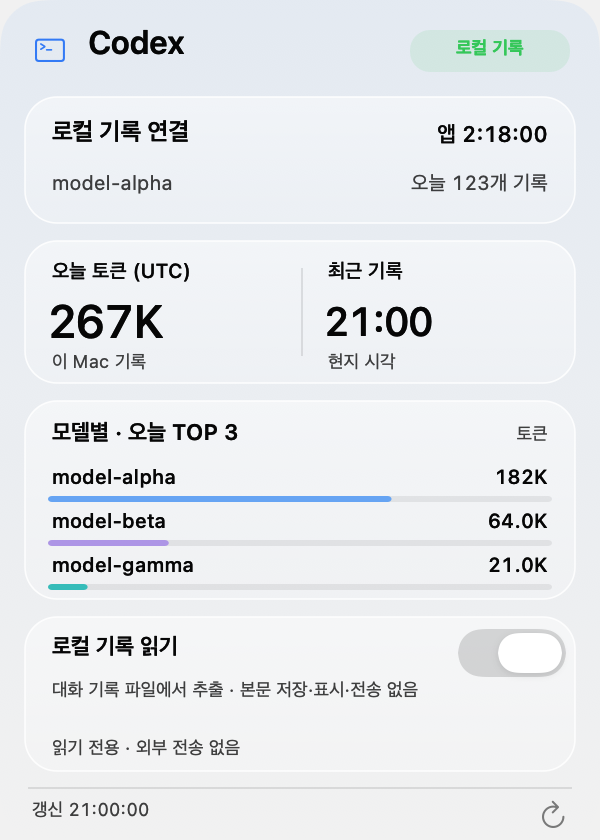
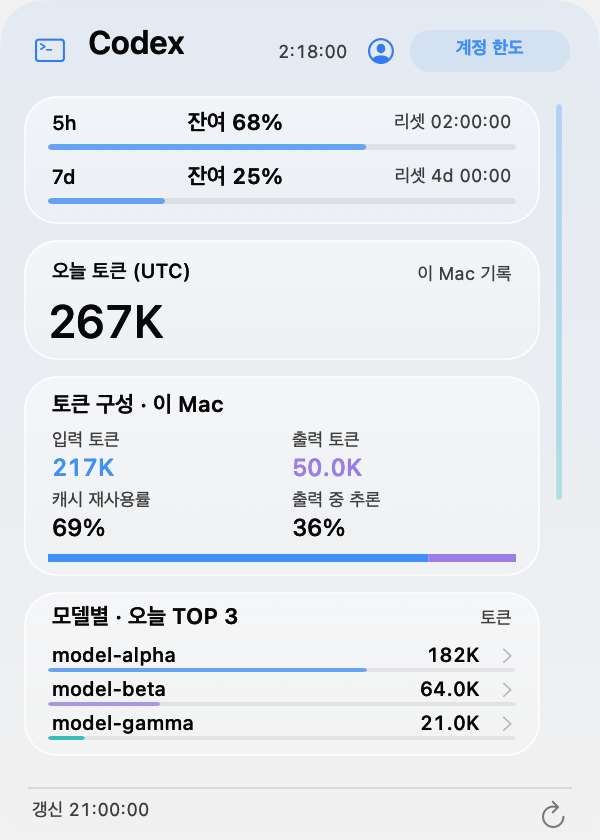
Prepare v2.10.5 release notes and refresh Codex previews

diff --git a/SECURITY.md b/SECURITY.md
@@ -10,7 +10,7 @@ Account quota is a separate, default-off opt-in. The account review explains tha
 
 The client sends only initialization and the documented account read/login/cancel/logout/quota RPCs and separately approved daily-usage reads, rejects unsolicited requests, and never creates a thread, requests model generation or executes a tool/command. This RPC restriction is not a provider-enforced read-only credential scope. Only validated numeric quota windows and connection states enter monitor/rendering snapshots; account IDs, email, device codes, URLs and raw errors do not. Quota normally polls once a minute, stops on system sleep, and resumes an approved saved connection after wake/relaunch. Stale, missing and expired data is unknown; reset timestamps do not prove restored access. Disconnect requests logout, closes this app’s helper, then unlinks only its isolated `auth.json`, reporting a removal failure if needed. It does not revoke unrelated Codex sessions. Users can revoke provider access from their account. See [account integration](docs/CODEX_ACCOUNT.md) for version and compatibility limits.
 
-Daily account statistics are a second, default-off opt-in with a separate review. Only after approval does the client add `account/usage/read` with empty parameters to its RPC allowlist. It retains at most seven validated date/token values in memory and discards thread fields. Separately approved account summaries retain only five validated numeric fields in memory; unknown fields are discarded. Existing local records are not uploaded. Queries normally run about once per five minutes using the existing timer; errors/unsupported responses do not break quota. Disabling the graph clears its data and ignores pending replies. Account disconnect also removes this statistics approval. No additional authentication scope, credential source or data recipient is introduced.
+Daily account statistics are a second, default-off opt-in with a separate review. Only after approval does the client add `account/usage/read` with empty parameters to its RPC allowlist. It retains at most seven validated date/token values in memory and discards thread fields. Separately approved account summaries retain only five validated numeric fields in memory; unknown fields are discarded. Existing local records are not uploaded. Queries normally run about once per five minutes using the existing timer; errors/unsupported responses do not break quota. Disabling statistics clears their data and ignores pending replies. Account disconnect also removes this statistics approval. No additional authentication scope, credential source or data recipient is introduced.
 
 Disk cleanup starts on explicit cleanup entry after the user has selected a local folder. The approved folder can be remembered and scanned on later cleanup entry; it is never scanned merely because the app launches, a tab changes or the panel reopens. It scans bounded file metadata without reading contents, suggests only old installers by prechecking them after a complete scan (large files and incomplete scans remain unchecked), and moves only explicitly selected regular files to Trash after a separate review. It does not permanently delete files, empty Trash, follow symbolic links, clean all caches, or request Full Disk Access. System and known cloud locations, package contents, and version-controlled project trees are excluded. Arbitrary third-party sync folders cannot all be detected; the UI asks the user to select a non-synced local folder. File and ancestor identities are checked again before each move; changed or inaccessible items are skipped. Results distinguish moved, skipped, and failed files, and moving to Trash is never reported as reclaimed space. Only the approved folder bookmark, exact physical path and stable ancestor identities are stored locally; the user can forget this record from the folder menu. Moved, replaced, newly protected or unverifiable locations require explicit selection again. Candidate paths, checkbox states, confirmations and results remain in memory and are not written to logs or uploaded.
 
@@ -18,6 +18,6 @@ Please do not post access tokens, private process names, personal paths, or deta
 
 Only current source and release assets from this repository are supported. Check release filenames, the recorded commit and SHA-256 checksums before using a download. Checksums detect file differences; they do not replace Developer ID signing or Apple notarization. The initial release is ad-hoc signed and is not notarized.
 
-The account graph explicitly says sign-in is required when disconnected or awaiting re-authentication and suppresses even cached graph values in those states. Signing in does not enable daily statistics without its separate review. Local models remain available independently when local record reading is enabled.
+The account cards explicitly say sign-in is required when disconnected or awaiting re-authentication and suppress even cached account values in those states. Signing in does not enable daily statistics without its separate review. Local models remain available independently when local record reading is enabled.
 
-Extended local insights reuse the already-approved model/counter/timestamp records. The ten one-minute activity buckets contain numbers only, are bounded to the current UTC-day coverage, and are cleared when local record reading stops. Account lifetime/peak/streak/longest-turn summaries have a separate default-off review. Turning summary off clears them immediately; daily-statistics off or disconnect clears the summary approval too. No additional recipient, endpoint, model call, record scope or on-disk usage history is introduced.
+Extended local insights reuse the already-approved model/counter/timestamp records. Input/output composition, cache reuse and reasoning shares use validated numeric subsets and are cleared when local record reading stops. There is no ten-minute activity chart or daily account graph. Account lifetime/peak/streak/longest-turn summaries have a separate default-off review. Turning summary off clears them immediately; daily-statistics off or disconnect clears the summary approval too. No additional recipient, endpoint, model call, record scope or on-disk usage history is introduced.

diff --git a/README.ja.md b/README.ja.md
@@ -20,7 +20,7 @@
 
 - **メニューバー:** CPU温度・使用率、GPU使用率、SSD読み書き、ネットワーク速度と動く指標。
 - **クリックでパネル:** CPU・GPU・メモリ・SSD・通信タブ、最近のグラフ、CPU・メモリ上位3プロセス、起動後の経過時間。
-- **Codex:** 左の補助パネルにアプリ実行時間・今日のローカルトークン・モデル別使用量。新しいトークン記録を検出するとメニューバーのロボットが動きます。
+- **Codex:** 左の補助パネルに今日のローカルトークン・入出力・キャッシュ再利用率・モデルTOP 3を表示。任意のアカウント上限と活動要約を追加でき、細い独自スクロールバーでカードをまとめて移動します。
 - **ディスク整理:** 選んだフォルダの候補を確認し、最終確認後に選択ファイルをゴミ箱へ移動。
 - **設定:** 表示項目・動き・ログイン時の起動を変更。韓国語が既定で、英語・日本語・簡体字中国語にも対応。
 
@@ -51,7 +51,7 @@ zsh scripts/install.sh --open
 
 Codex記録の読み取りは**既定でOFF**です。オンにすると`~/.codex/sessions`からモデル名・トークン数・時刻のみメモリに集計します。ファイルには会話本文もありますが、本文・コマンド・認証情報は保管・表示・送信せず、元ファイルも変更しません。オフで読み取りを止め、集計を消去します。
 
-対象は**このMacの今日の記録（UTC）**で、アカウント全体の使用量・請求額ではありません。任意の[公式ログイン連携](docs/CODEX_ACCOUNT.md)で、パネルにアカウントの残り上限とリセット時刻を表示できます。ロボットは追加の記録がないと10秒後に止まり、リアルタイムのトークン消費や作業完了を示しません。
+対象は**このMacの今日の記録（UTC）**で、アカウント全体の使用量・請求額ではありません。任意の[公式ログイン連携](docs/CODEX_ACCOUNT.md)は、別途同意後に残り上限とリセットまでの時間を表示します。日別の数値要約と累計トークン・連続使用日数などの要約も、それぞれ追加の同意が必要です。開発者の収集サーバー・分析SDK・リモートログ送信はありません。ロボットは追加の記録がないと10秒後に止まり、リアルタイムのトークン消費や作業完了を示しません。
 
 ---
 

diff --git a/README.md b/README.md
@@ -20,7 +20,7 @@
 
 - **메뉴바:** CPU 온도·사용률, GPU 사용률, SSD 읽기·쓰기, 네트워크 속도와 움직이는 지표.
 - **클릭 패널:** CPU·GPU·메모리·SSD·통신 탭, 최근 그래프, CPU·메모리 프로세스 TOP 3, 부팅 후 경과 시간.
-- **Codex:** 왼쪽 보조 패널에 앱 실행 시간·오늘 로컬 토큰·모델별 사용량. 메뉴바 로봇은 새 토큰 기록이 감지되면 움직입니다.
+- **Codex:** 왼쪽 보조 패널에 오늘 로컬 토큰·입력/출력·캐시 재사용·모델 TOP 3. 선택적으로 계정 한도와 활동 요약을 연결하며, 얇은 커스텀 스크롤바로 카드를 함께 탐색합니다.
 - **디스크 정리:** 선택한 폴더에서 후보를 확인하고, 최종 확인 후 휴지통으로 이동.
 - **설정:** 표시 항목·움직임·로그인 시 자동 실행. 한국어 기본, 영어·일본어·중국어 간체 지원.
 
@@ -51,7 +51,7 @@ zsh scripts/install.sh --open
 
 Codex 기록 읽기는 **기본 OFF**입니다. 켜면 `~/.codex/sessions`에서 모델명·토큰 숫자·시각만 메모리에 집계합니다. 파일에는 대화 본문도 있지만 본문·명령·인증정보를 보관·표시·전송하지 않으며 원본을 수정하지 않습니다. 끄면 읽기와 집계를 중지합니다.
 
-사용량은 **이 Mac의 오늘 기록(UTC)**입니다. 계정 전체 사용량·청구 금액은 아닙니다. 선택적인 [공식 로그인 한도 연결](docs/CODEX_ACCOUNT.md)을 켜면 패널에 계정 잔여율과 리셋 카운트다운을 별도로 표시합니다. 로봇은 새 기록 감지 후 추가 기록이 없으면 10초 뒤 멈추며, 실시간 토큰 소비나 작업 완료 상태를 뜻하지 않습니다.
+사용량은 **이 Mac의 오늘 기록(UTC)**입니다. 계정 전체 사용량·청구 금액은 아닙니다. 선택적인 [공식 로그인 연결](docs/CODEX_ACCOUNT.md)은 별도 동의 후 계정 잔여율·리셋 카운트다운을 표시합니다. 날짜별 숫자 요약과 누적 토큰·연속 사용일 등의 계정 요약도 각각 추가 동의가 필요합니다. 개발자 수집 서버·분석 SDK·원격 로그 업로드는 없습니다. 로봇은 새 기록 감지 후 추가 기록이 없으면 10초 뒤 멈추며, 실시간 토큰 소비나 작업 완료 상태를 뜻하지 않습니다.
 
 ---
 

diff --git a/README.en.md b/README.en.md
@@ -20,7 +20,7 @@
 
 - **Menu bar:** CPU temperature and usage, GPU usage, SSD read/write rates, network speeds and animated indicators.
 - **Click-open panel:** CPU, GPU, memory, SSD and network tabs, recent graphs, top three CPU/memory processes and system uptime.
-- **Codex:** A companion on the left shows app runtime, local tokens today and model usage. A menu bar robot moves when a new token record arrives.
+- **Codex:** A left companion shows local tokens today, input/output, cache reuse and model TOP 3. Optional account quota and activity summaries share a scrolling card layout with an original slim scrollbar.
 - **Disk cleanup:** Review candidates in a chosen folder, then confirm before moving selected files to Trash.
 - **Settings:** Choose metrics, motion and startup at login. Korean by default; English, Japanese and Simplified Chinese supported.
 
@@ -51,7 +51,7 @@ Quit the existing app first. Installs into `~/Applications`; no `sudo` required.
 
 Codex record reading is **OFF by default**. When enabled, only model names, token numbers and timestamps from `~/.codex/sessions` are aggregated in memory. These files also contain conversations, but bodies, commands and credentials are never kept, displayed or transferred. Source files are unchanged; switching off stops reading and clears aggregation.
 
-Usage covers **this Mac’s records for today (UTC)**, not account totals or billing. Optional [official sign-in](docs/CODEX_ACCOUNT.md) adds account remaining quota and a reset countdown in the panel. The robot stops after 10 seconds without another new record; it does not indicate live token consumption or task completion.
+Usage covers **this Mac’s records for today (UTC)**, not account totals or billing. Optional [official sign-in](docs/CODEX_ACCOUNT.md) adds remaining account quota and reset countdowns after separate consent. Daily numeric summaries and lifetime/streak account summaries each require additional opt-in. There is no developer collection server, analytics SDK or remote log upload. The robot stops after 10 seconds without another new record; it does not indicate live token consumption or task completion.
 
 ---
 

diff --git a/README.zh-CN.md b/README.zh-CN.md
@@ -20,7 +20,7 @@
 
 - **菜单栏：** CPU温度与使用率、GPU使用率、SSD读写、网络速度及动画指示器。
 - **点击面板：** CPU、GPU、内存、SSD、网络标签，近期图表，CPU/内存占用最高的3个进程及系统运行时长。
-- **Codex：** 左侧辅助面板显示应用运行时长、今日本地令牌和各模型用量。检测到新令牌记录时，菜单栏机器人开始打字。
+- **Codex：** 左侧辅助面板显示今日本地令牌、输入/输出、缓存复用率和模型TOP 3。可选连接账号额度和活动摘要，通过纤细的原创滚动条一起浏览卡片。
 - **磁盘清理：** 检查所选文件夹的候选项，最终确认后将选中文件移到废纸篓。
 - **设置：** 自选指标、动画及登录时启动。默认韩语，支持英语、日语及简体中文。
 
@@ -51,7 +51,7 @@ zsh scripts/install.sh --open
 
 Codex记录读取**默认关闭**。开启后，仅从`~/.codex/sessions`提取模型名、令牌数字和时间，在内存中统计。这些文件也包含对话正文，但不会保留、显示或传输正文、命令和凭据，不修改原文件。关闭后停止读取并清除统计。
 
-用量仅涵盖**此Mac今日记录（UTC）**，并非整个账号的用量或账单。可选的[官方登录连接](docs/CODEX_ACCOUNT.md)会在面板中显示账号剩余额度和重置倒计时。10秒内没有新记录时机器人停止，动画不代表实时令牌消耗或任务完成。
+用量仅涵盖**此Mac今日记录（UTC）**，并非整个账号的用量或账单。可选的[官方登录连接](docs/CODEX_ACCOUNT.md)需单独同意，才会显示账号剩余额度和重置倒计时。每日数字摘要和累计令牌、连续使用天数等账号摘要，也分别需要额外同意。没有开发者数据收集服务器、分析SDK或远程日志上传。10秒内没有新记录时机器人停止，动画不代表实时令牌消耗或任务完成。
 
 ---
 

diff --git a/RELEASES.md b/RELEASES.md
@@ -1,5 +1,17 @@
 # Releases
 
+## v2.10.5 — 2026-10-20
+
+Codex account insights and a refined scrolling companion. Build 42.
+
+- Add optional Codex-managed ChatGPT sign-in for remaining quota and reset countdowns. Use an independently installed OpenAI-signed helper with a private, isolated credential store; never import existing desktop credentials or make model calls.
+- Keep daily account statistics and five lifetime/peak/streak/longest-turn summary values behind separate default-off reviews. Missing or stale values remain unknown; disabling clears the approved in-memory data. No developer collection server, analytics SDK, remote logging or usage-history files.
+- Show local input/output composition, cache reuse, reasoning share and model TOP 3; click a model to expand details. Keep local UTC-today records distinct from account-wide statistics. Local record reading moves to Settings, directly below Language.
+- Keep the original title header and fixed 300×420pt companion. Scroll the quota card with the other cards, using an original translucent 3pt thumb that emphasizes during interaction while preserving native drag, paging and accessibility.
+- Update four-language documentation and synthetic Codex previews. Retain the compact menu robot, menu animation limits, paired-panel placement and reviewed disk cleanup.
+
+Apple Silicon · macOS 14+. DMG, ZIP and SHA256SUMS are provided. Community builds are ad-hoc signed, without Developer ID signing or Apple notarization. MIT licensed; bundled notices are preserved. Made with OpenAI Codex and user feedback.
+
 ## v2.7.1 — 2026-10-20
 
 Reduce menu bar rendering overhead. Build 29.
